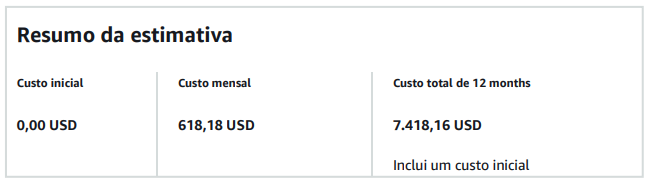
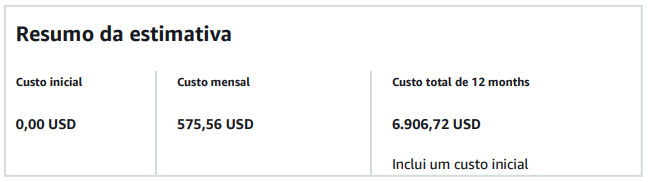
add: added individual precification

diff --git a/README.md b/README.md
@@ -114,13 +114,156 @@ Porém antes da migração acontecer para a nova estrutura, precisamos fazer uma
 
 ### Como será realizado o processo de Backup?
 
-- O processo de backup será realizado utilizando as funcionalidades nativas dos serviços `RDS` e `EBS`, com o suporte de serviços auxiliares como o `CloudWatch` e `SNS` para garantir a integridade e a segurança dos dados. Cada serviço será configurado para realizar backups de acordo com as políticas de frequência e retenção estabelecidas.
+- O processo de backup será realizado utilizando as funcionalidades nativas dos serviços `RDS` e `EBS`, com o suporte de serviços auxiliares como o `CloudWatch` e `SNS` para garantir a integridade dos dados. Cada serviço será configurado para realizar backups de acordo com as políticas de frequência e retenção estabelecidas.
 
 - **RDS**: O backup do banco de dados será gerido através dos `backups automáticos`. Serão configurados para garantir a retenção de dados de acordo com a frequência definida.
 - **EBS**: O backup dos volumes EBS será realizado através da criação de `snapshots`. Serão configurados para executar periodicamente, de acordo com as políticas de retenção estabelecidas.
-- **CloudWatch**: Será utilizado para configurar alarmes que monitorem a execução dos backups e garantam que os processos estão sendo realizados conforme o esperado. Caso algum backup falhe ou algum evento crítico ocorra, o CloudWatch acionará as notificações.
-- **SNS**: Integrado ao CloudWatch, o SNS será configurado para enviar notificações em tempo real sobre o status dos backups.
+- **CloudWatch**: Será utilizado para configurar alarmes que monitorem a execução dos backups e garantam que os processos estão sendo realizados conforme o esperado. Caso algum backup falhe ou algum evento crítico ocorra, o `CloudWatch` acionará as notificações.
+- **SNS**: Integrado ao `CloudWatch`, o `SNS` será configurado para enviar notificações em tempo real sobre o status dos backups.
 
 ### Qual o custo da infraestrutura na AWS (AWS Calculator)?
 
 <div align="center"><img src="./assets/image3.png"/></div>
+
+**1. Amazon RDS for MySQL**
+
+- Custo Mensal: 265,56 USD
+- Descrição: o Amazon RDS de 500 GB em SSD de uso geral (gp2), rodando MySQL
+- Tipo de instância: db.t3.xlarge (4 vCPUs, 16 GB de memória)
+- Implantação: Single-AZ (apenas uma zona de disponibilidade)
+- Backup adicional: 100 GB
+
+**2. Amazon EC2 - Frontend**
+
+- Custo Mensal: 16,58 USD
+- Descrição: Amazon EC2 (Elastic Compute Cloud) é usado para hospedagem do frontend da aplicação
+- Tipo de instância: t3.small (2 vCPUs, 2 GB de memória)
+- Configuração: Linux, 24 horas por dia
+- Armazenamento: 5 GB EBS
+
+**3. Amazon EC2 - Backend**
+
+- Custo Mensal: 31,77 USD
+- Descrição: Amazon EC2 para processamento backend da aplicação
+- Tipo de instância: t3.medium (2 vCPUs, 4 GB de memória)
+- Configuração: Linux, 100% de utilização mensal
+- Armazenamento: 5 GB EBS
+
+**4. Amazon Simple Storage Service (S3)**
+
+- Custo mensal: 1,07 USD
+- Descrição: serviço para armazenar dados temporários do AMS
+- Configuração:
+  - Armazenamento S3 Standard: 25 GB por mês
+  - Tráfego de entrada: Internet (25 GB por mês)
+  - Tráfego de Saída: Todas as outras regiões (25 GB por mês)
+
+**5. Amazon Route 53**
+
+- Custo Mensal: 1,50 USD
+- Descrição: serviço de DNS gerenciado para roteamento de tráfego
+- Configuração
+  - 1 Zona hospedada
+  - 1 Domínio armazenado
+
+**6. Elastic Load Balancing (ALB)**
+
+- Custo Mensal: 22,27 USD
+- Descrição: o Application Load Balancer (ALB) distribui o tráfego entre as instâncias do EC2, garantindo alta disponibilidade
+
+**7. Amazon VPC**
+
+- Custo Mensal: 35,10 USD
+- Descrição: a Amazon Virtual Private Cloud (VPC) fornece uma rede isolada onde os recursos AWS podem ser implementados
+- Confuguração:
+  - Número de gateways NAT: 1
+
+**8. Amazon Elastic Block Store (EBS)**
+
+- Custo Mensal: 17,25 USD
+- Descrição: serviço de armazenamento em bloco usado para instâncias EC2 ou outros serviços
+- Configuração:
+  - 1 Volume de 100 GB (gp2) com snapshots diários
+
+**9. AWS Database Migration Service (DMS)**
+
+- Custo Mensal: 139,98 USD
+- Descrição: serviço para migração de dados entre bancos de dados
+- Configuração:
+  - Tipo de instância: r5.large (2 vCPUs, 16 GB de memória)
+  - Armazenamento: 100 GB em SSD (gp2)
+  - Implantação: Single-AZ
+
+**10. AWS Application Migration Service (AMS)**
+
+- Custo Mensal: 0,00 USD
+- Descrição: serviço para migrar servidores locais para a AWS
+- Configuração:
+  - 2 servidores, 100 horas por servidor
+
+**11. Amazon EC2 - AMS**
+
+- Custo Mensal: 34,37 USD
+- Descrição: instância EC2 utilizada pelo AWS Application Migration Service (AMS) para auxiliar na migração de aplicativos e servidores para a nuvem AWS
+- Configuração:
+  - Tipo de instância: c5a.large (2 vCPUs, 4 GB de memória)
+  - Armazenamento: 16 GB EBS
+  - Tráfego: Entrada de 500 GB/mês (internet), saída de 500 GB/mês (AWS Region)
+  - Utilização On-Demand: 25 %utilizado/mês
+
+**12. AWS IAM Access Analyzer**
+
+- Custo mensal: 4,00 USD
+- Descrição: serviço de controle de permissões e usuários
+- Configuração:
+  - Número de analisadores por conta: 1
+  - Número de contas a serem monitoradas: 1
+  - Média de funções por conta: 10
+  - Média de usuários por conta: 10
+
+**13. AWS CloudTrail**
+
+- Custo mensal: 0,00 USD
+- Descrição: serviço de restreamento de chamadas de API na nuvem AWS
+- Configuração:
+  - Trilhas de gerenciamento de gravação e leitura: 1 milhão
+  - Trilhas com eventos de Insights: 1 milhão
+  - Eventos de gerenciamento de gravação e leitura: 1 por dia
+
+**14. Amazon CloudWatch**
+
+- Custo mensal: 4,31 USD
+- Descrição: serviço de monitoramento para diversos outros serviços
+- Configuração:
+  - Número de métricas (inclui métricas detalhadas e personalizadas): 6
+  - Número de vCPUs monitoradas pelo Database Insights: 0.1 por hora
+  - Número de painéis: 3
+  - Número das métricas do alarme de resolução padrão: 4
+  - Número das métricas do alarme de alta resolução: 4
+
+**15. Amazon Simple Notification Service (SNS)**
+
+- Custo mensal: 1,80 USD
+- Descrição: serviço de envio de notificações
+- Configuração:
+  - Solicitações: 1 milhão por mês
+  - Notificações HTTP/HTTPS: 1 milhão por mês
+  - Notificações de E-MAIL/E-MAIL-JSON: 50000 por mês
+  - Verificação de mensagens de publicação e entrega: 1 GB por mês
+  - Relatórios de auditoria: 1 GB por mês
+
+## Etapa 2: Modernização/Kubernetes
+
+### Quais atividades são necessárias para a migração?
+
+### Quais as ferramentas vão ser utilizadas?
+
+### Qual o diagrama da infraestrutura na AWS?
+
+### Como serão garantidos os requisitos de Segurança?
+
+### Como será realizado o processo de Backup?
+
+### Qual o custo da infraestrutura na AWS (AWS Calculator)?
+
+## Conclusão
